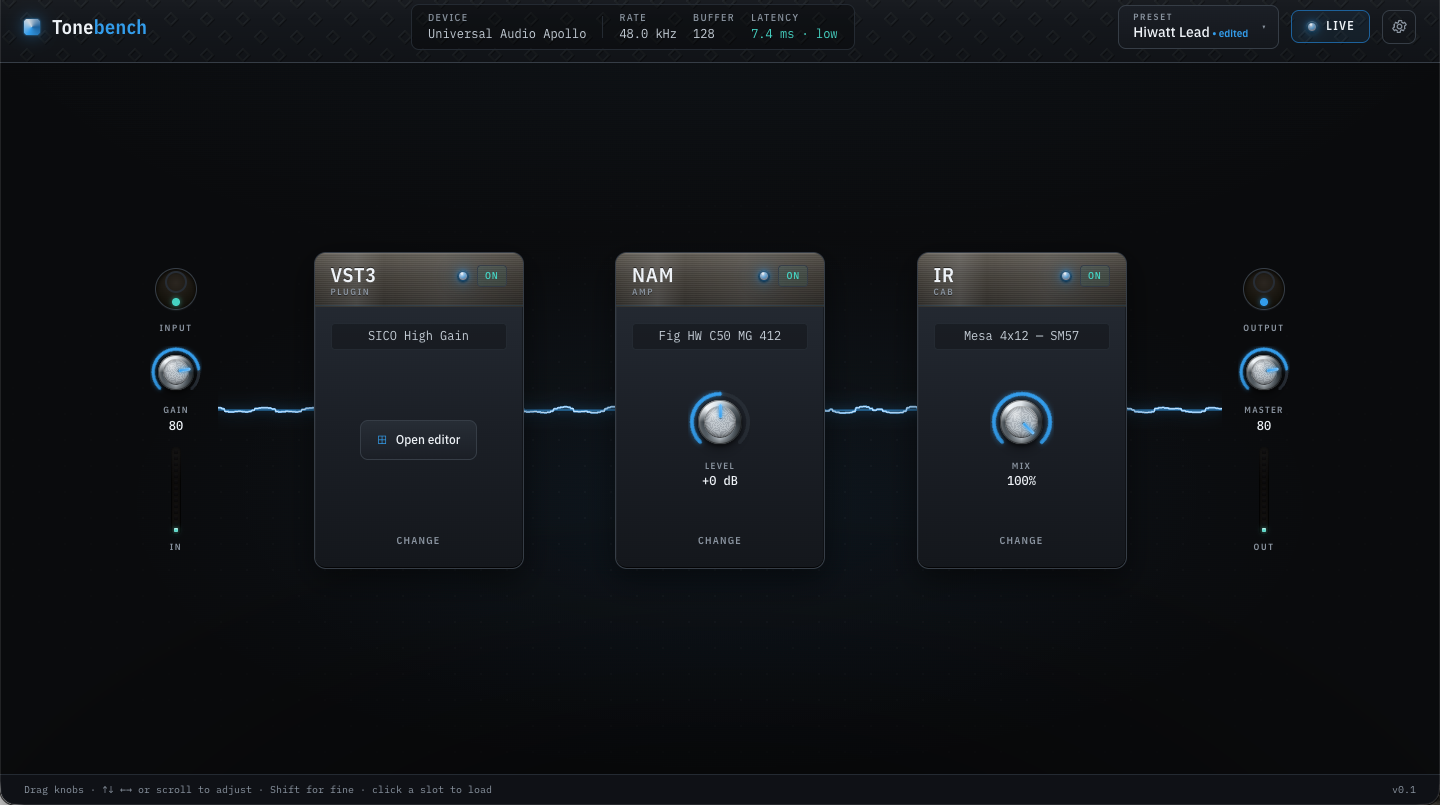
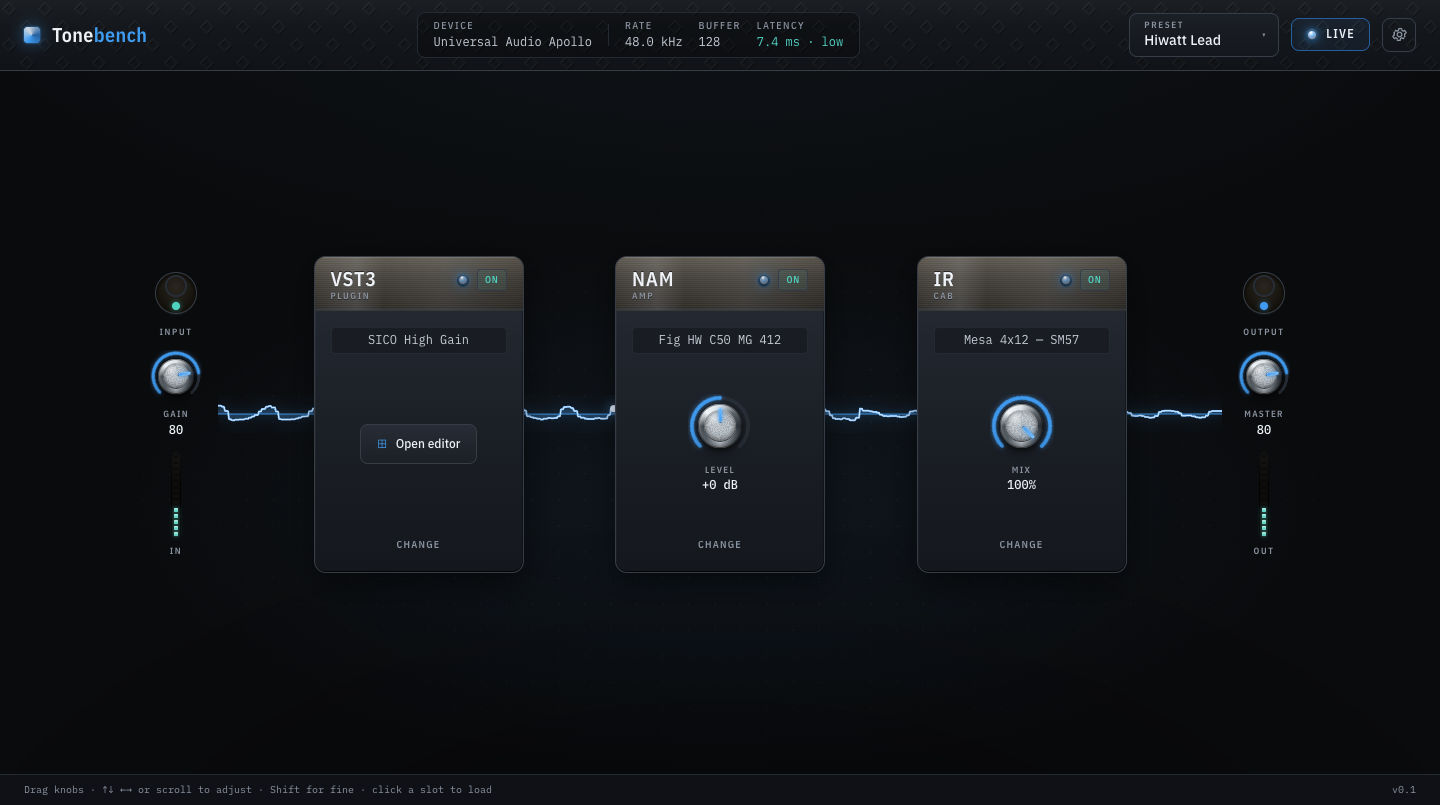
Site: replace screenshots with the live, interactive app
The hero and chain shots are now the real React UI (ui/showcase.html) on the
mock engine, built into site/app/ by `npm run build:showcase` (Pages CI runs it).
They scale to fit, crop via data-crop, let the wheel scroll the page, and go
look-only below half size. README hero.png regenerated from the same build.

Also: mock "Change" no longer reloads the already-loaded NAM/IR first, and the
hero tagline ends on "Play." with the scope canvas clipped on phones.

diff --git a/site/index.html b/site/index.html
@@ -109,7 +109,7 @@
   .mark .bench { color: var(--accent); }
 
   /* ---- hero ---- */
-  .hero { padding: 86px 0 36px; text-align: center; }
+  .hero { padding: 86px 0 36px; text-align: center; overflow-x: clip; }
 
   /* the signature: a live oscilloscope threading through the wordmark */
   .scope-stage {
@@ -226,15 +226,40 @@
     background: linear-gradient(90deg, transparent, var(--teal), transparent);
     opacity: 0.55;
   }
-  .shot img {
-    display: block;
-    width: 100%;
-    height: auto;
-    border-radius: 9px;
-    background: repeating-linear-gradient(135deg, #15181e, #15181e 12px, #171b22 12px, #171b22 24px);
-    object-fit: cover;
-  }
   .hero-shot { margin-top: 56px; }
+
+  /* Live app previews: the real UI (ui/src/showcase.tsx, built into app/) on a
+     mock engine, laid out at its native 1440x805 window size, then scaled to fit
+     and cropped to data-crop="x y w h" by the script below. Interactive, except
+     when scaled too small to use (phones), where it's inert. */
+  .live {
+    position: relative;
+    overflow: hidden;
+    border-radius: 9px;
+    aspect-ratio: var(--crop-w, 1440) / var(--crop-h, 805);
+    background: #0a0b0d;
+  }
+  .live.is-inert { pointer-events: none; }
+  .live iframe {
+    position: absolute;
+    left: 0; top: 0;
+    width: 1440px;
+    height: 805px;
+    border: 0;
+    transform-origin: 0 0;
+    opacity: 0;
+    transition: opacity 0.4s ease;
+  }
+  .live iframe.ready { opacity: 1; }
+  .live-hint {
+    margin: 14px 0 0;
+    text-align: center;
+    font-family: var(--mono);
+    font-size: 12px;
+    letter-spacing: 0.08em;
+    color: var(--muted);
+  }
+  .live-hint.is-hidden { display: none; }
 
   /* ---- sections ---- */
   section { padding: 66px 0; }
@@ -369,7 +394,7 @@
       <canvas class="scope" aria-hidden="true"></canvas>
       <h1 class="mark"><span class="tone">Tone</span><span class="bench">bench</span></h1>
     </div>
-    <p class="tagline">Load a plugin, an amp model, and a cab. Chain them. Play. The simple tone rig that sits in the middle, free and fast.</p>
+    <p class="tagline">Load a plugin, an amp model, and a cab. Chain them. Play.</p>
     <div class="btns">
       <a class="btn btn-primary" href="https://github.com/jcjmcclean/tonebench/releases">
         <svg viewBox="0 0 24 24" fill="none" stroke="currentColor" stroke-width="2" stroke-linecap="round" stroke-linejoin="round" aria-hidden="true"><path d="M12 3v12m0 0 4-4m-4 4-4-4"/><path d="M4 17v2a2 2 0 0 0 2 2h12a2 2 0 0 0 2-2v-2"/></svg>
@@ -383,12 +408,11 @@
     <p class="platform">macOS · Windows · Linux · AGPLv3</p>
 
     <div class="shot hero-shot">
-      <picture>
-        <source srcset="assets/hero.webp" type="image/webp" />
-        <img src="assets/hero.png" width="1440" height="805" fetchpriority="high" decoding="async"
-             alt="Tonebench main window showing a VST3 plugin, a NAM amp model, and an IR cab chained together with a live signal scope." />
-      </picture>
+      <div class="live" data-crop="0 0 1440 805">
+        <iframe src="app/showcase.html" title="Interactive Tonebench preview: a VST3 plugin, a NAM amp model, and an IR cab chained together with a live signal scope"></iframe>
+      </div>
     </div>
+    <p class="live-hint">Live demo: drag the knobs, flip a slot off and on, hit Change, pick a preset.</p>
   </div>
 </header>
 
@@ -463,11 +487,9 @@
     </div>
 
     <div class="shot" style="margin-top:48px">
-      <picture>
-        <source srcset="assets/detail.webp" type="image/webp" />
-        <img src="assets/detail.png" width="1440" height="565" loading="lazy" decoding="async"
-             alt="The three Tonebench slots: a VST3 plugin, a NAM amp model, and an IR cab, with the live signal threading between them." />
-      </picture>
+      <div class="live" data-crop="304 246 833 336">
+        <iframe src="app/showcase.html?view=chain" title="Interactive Tonebench signal chain: a VST3 plugin, a NAM amp model, and an IR cab" loading="lazy"></iframe>
+      </div>
     </div>
   </div>
 </section>
@@ -502,6 +524,35 @@
   </div>
 </footer>
 
+<script>
+/* Fit each live app preview: scale the 1440x805 app so its crop rect fills the
+   frame. Below half size the controls are too small to use (and dragging would
+   fight page scrolling on touch), so it becomes a look-only picture there. */
+(function () {
+  document.querySelectorAll(".live").forEach(function (box) {
+    var c = box.dataset.crop.split(" ").map(Number);
+    var frame = box.querySelector("iframe");
+    box.style.setProperty("--crop-w", c[2]);
+    box.style.setProperty("--crop-h", c[3]);
+    function fit() {
+      var s = box.clientWidth / c[2];
+      frame.style.transform = "scale(" + s + ") translate(" + -c[0] + "px," + -c[1] + "px)";
+      var small = s < 0.5;
+      box.classList.toggle("is-inert", small);
+      frame.toggleAttribute("inert", small);
+      frame.tabIndex = small ? -1 : 0;
+      var hint = box.parentElement.nextElementSibling;
+      if (hint && hint.classList.contains("live-hint")) hint.classList.toggle("is-hidden", small);
+    }
+    fit();
+    new ResizeObserver(fit).observe(box);
+    frame.addEventListener("load", function () {
+      // Let React mount past the "Connecting…" splash before revealing.
+      setTimeout(function () { frame.classList.add("ready"); }, 150);
+    });
+  });
+})();
+</script>
 <script>
 /* Live oscilloscope signature: an electric-blue guitar signal threading
    through the wordmark. Tiny, vanilla, GPU-light. It pauses when offscreen

diff --git a/ui/src/showcase.tsx b/ui/src/showcase.tsx
@@ -1,0 +1,45 @@
+// Website showcase entry: the real app UI driven by the mock engine, embedded
+// in site/index.html as interactive previews. Built with `npm run build:showcase`
+// into site/app/ — never part of the embedded webui.zip.
+import { StrictMode } from "react";
+import { createRoot } from "react-dom/client";
+
+import "@fontsource/ibm-plex-sans/latin-400.css";
+import "@fontsource/ibm-plex-sans/latin-500.css";
+import "@fontsource/ibm-plex-sans/latin-600.css";
+import "@fontsource/ibm-plex-sans-condensed/latin-500.css";
+import "@fontsource/ibm-plex-sans-condensed/latin-600.css";
+import "@fontsource/ibm-plex-mono/latin-400.css";
+import "@fontsource/ibm-plex-mono/latin-500.css";
+
+import "./styles/tokens.css";
+import "./styles/global.css";
+import "./showcase.css";
+import App from "./App.tsx";
+import { bridge } from "./bridge";
+
+// Show a full rig: the mock starts with the VST3 slot empty.
+bridge.loadSlot("vst3");
+
+// On a webpage the wheel should scroll the page, not turn whatever knob happens
+// to be under the cursor. Stopping it at the window (capture phase) keeps it from
+// reaching the knob's listener, and the unhandled scroll chains to the parent page.
+window.addEventListener("wheel", (e) => e.stopPropagation(), { capture: true });
+
+// ?view=chain: the site crops this embed to the three modules, so take the parts
+// outside the crop out of the tab order.
+if (new URLSearchParams(location.search).get("view") === "chain") {
+  const hide = () => {
+    const els = document.querySelectorAll(".topbar, .statusbar, .terminal");
+    els.forEach((el) => el.setAttribute("inert", ""));
+    return els.length > 0;
+  };
+  const mo = new MutationObserver(() => { if (hide()) mo.disconnect(); });
+  mo.observe(document.getElementById("root")!, { childList: true, subtree: true });
+}
+
+createRoot(document.getElementById("root")!).render(
+  <StrictMode>
+    <App />
+  </StrictMode>,
+);

diff --git a/ui/vite.config.ts b/ui/vite.config.ts
@@ -2,17 +2,20 @@ import { defineConfig } from "vite";
 import react from "@vitejs/plugin-react";
 
 // Built output is embedded in the JUCE app and served from juce://juce.backend/,
-// so asset URLs must be relative.
-export default defineConfig({
+// so asset URLs must be relative. `--mode showcase` instead builds the website's
+// live app previews (showcase.html) into site/app/.
+export default defineConfig(({ mode }) => ({
   plugins: [react()],
   base: "./",
   build: {
-    outDir: "dist",
+    outDir: mode === "showcase" ? "../site/app" : "dist",
+    emptyOutDir: true,
     assetsDir: "assets",
     target: "es2020",
     sourcemap: false,
     modulePreload: { polyfill: false },
     rollupOptions: {
+      ...(mode === "showcase" && { input: "showcase.html" }),
       output: {
         entryFileNames: "assets/[name]-[hash].js",
         chunkFileNames: "assets/[name]-[hash].js",
@@ -21,4 +24,4 @@ export default defineConfig({
     },
   },
   server: { port: 5173 },
-});
+}));

diff --git a/ui/src/bridge.ts b/ui/src/bridge.ts
@@ -17,8 +17,9 @@ function createMockBridge(): Bridge {
     nam: ["Fig HW C50 MG 412", "Fig HW DR Hot 212", "Fig HW C50 MG DI"],
     ir: ["Mesa 4x12 — SM57", "Hiwatt SE4123 — R121", "Marshall 1960 — 414"],
   };
-  let namIdx = 0;
-  let irIdx = 0;
+  // The NAM and IR slots start loaded with the first name, so "Change" moves on from it.
+  let namIdx = 1;
+  let irIdx = 1;
 
   const state: EngineState = {
     device: "Universal Audio Apollo",

diff --git a/ui/showcase.html b/ui/showcase.html
@@ -1,0 +1,14 @@
+<!doctype html>
+<html lang="en">
+  <head>
+    <meta charset="UTF-8" />
+    <meta name="viewport" content="width=1440" />
+    <meta name="color-scheme" content="dark" />
+    <meta name="robots" content="noindex" />
+    <title>Tonebench</title>
+  </head>
+  <body>
+    <div id="root"></div>
+    <script type="module" src="/src/showcase.tsx"></script>
+  </body>
+</html>

diff --git a/ui/src/showcase.css b/ui/src/showcase.css
@@ -1,0 +1,2 @@
+/* It's a picture of the app, not a dev preview. */
+.badge--mock { display: none; }
